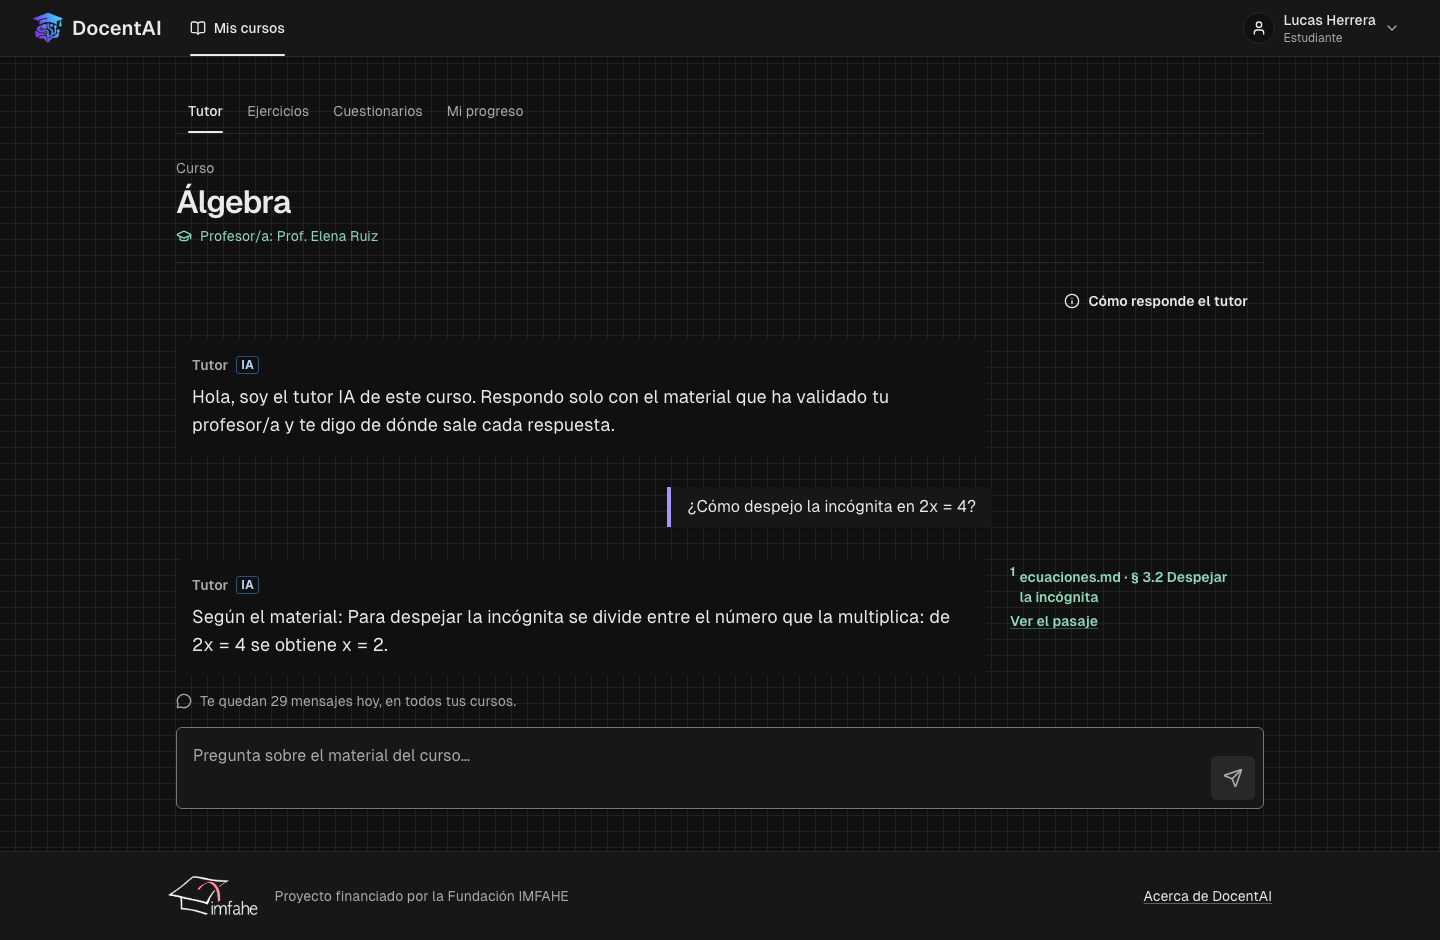
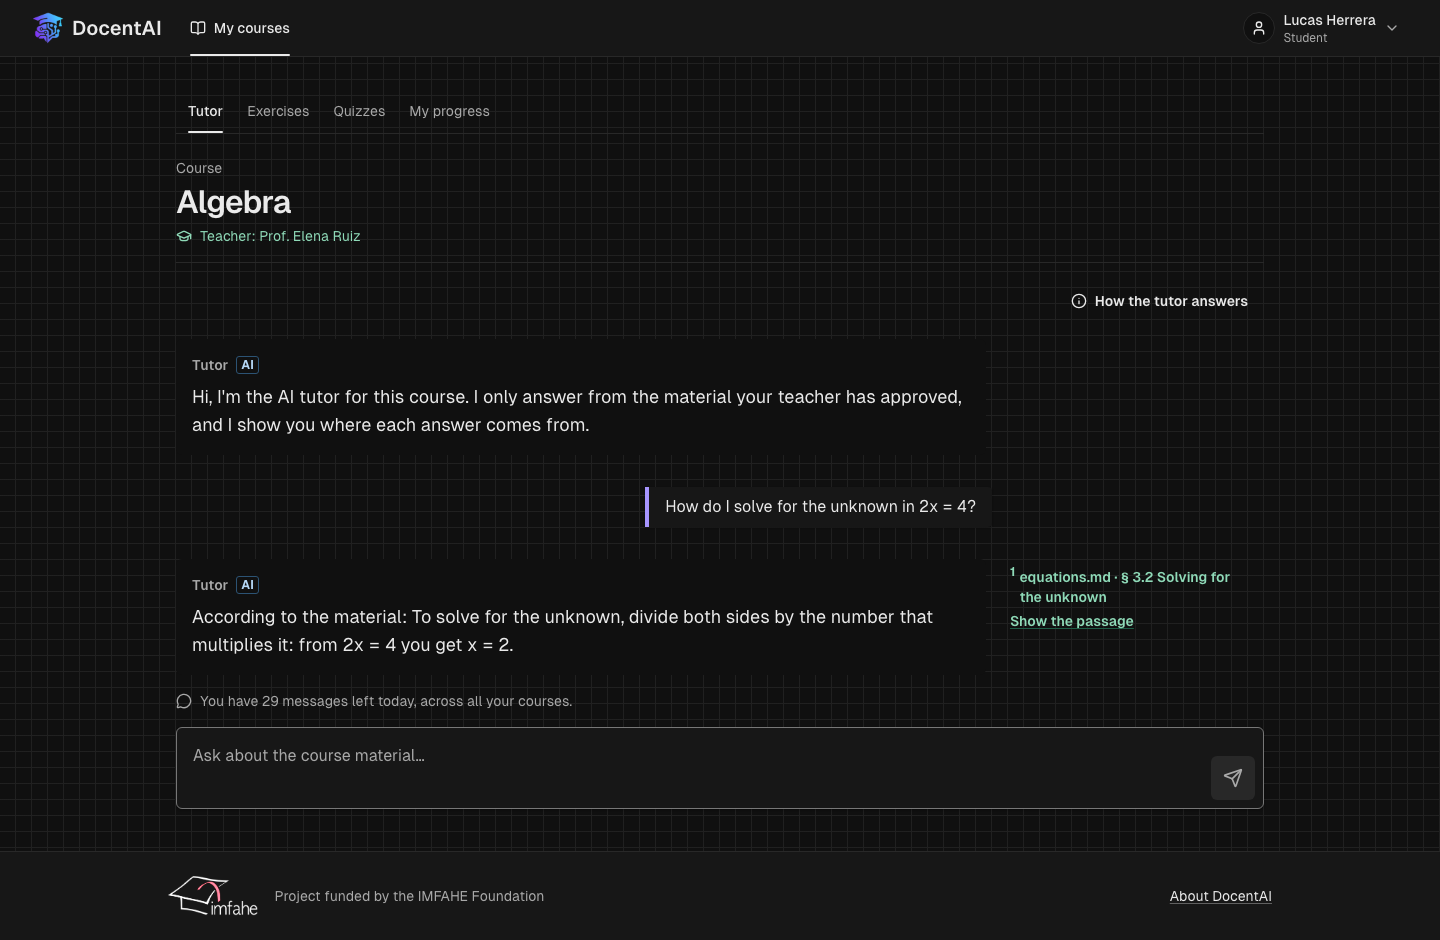
docs(readme): show the platform in English in the screenshots

diff --git a/README.md b/README.md
@@ -19,7 +19,7 @@ This repository is the FastAPI service behind it. The web app is
 
 <picture>
   <source media="(prefers-color-scheme: dark)" srcset="docs/images/student-chat-dark.png">
-  <img src="docs/images/student-chat-light.png" alt="A student asks the course tutor how to solve 2x = 4. The tutor answers from the teacher's material and cites it: ecuaciones.md, section 3.2, with a link to the passage. Below, the student's remaining daily messages.">
+  <img src="docs/images/student-chat-light.png" alt="A student asks the course tutor how to solve 2x = 4. The tutor answers from the teacher's material and cites it: equations.md, section 3.2, with a link to the passage. Below, the student's remaining daily messages.">
 </picture>
 
 - **Contract**: [`openapi.json`](openapi.json) (committed; the frontend generates its types from
